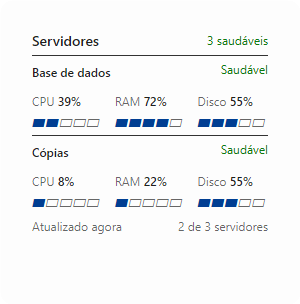
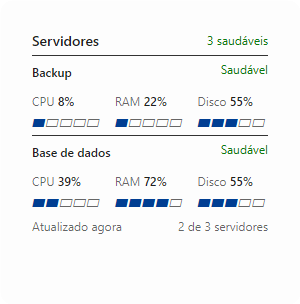
fix(app): approved picker copy and pt-PT synthetic name (UI.9 C2 nits)
- Prism C2 review §1 (binding): WidgetScreenshotAltText describes what is
  constant (health + CPU/RAM/disk), no server count, in en-US/pt-PT/pt-BR;
  WidgetDescription unchanged. Test pins the full approved table.
- N2-1: pt-PT synthetic server "Cópias" -> "Backup"; the two pt-PT picker
  PNGs regenerated with the same deterministic proxy command (en and pt-BR
  re-renders were byte-identical, so they are unchanged).

diff --git a/tests/ServerMonitor.App.Tests/Architecture/WidgetManifestGuardTests.cs b/tests/ServerMonitor.App.Tests/Architecture/WidgetManifestGuardTests.cs
@@ -95,6 +95,27 @@ public sealed class WidgetManifestGuardTests
             .Single(d => (string?)d.Attribute("name") == "WidgetDescription").Element("value")).Distinct().Count());
     }
 
+    /// <summary>
+    /// Prism C2 review §1 (BINDING): the exact picker copy per language. The alt text describes what is
+    /// constant (health + CPU/RAM/disk), never a server count, so the screenshot can change rows freely.
+    /// The en-US values are also the literal fallback if the board does not resolve ms-resource.
+    /// </summary>
+    [Theory]
+    [InlineData("en-US", "Your servers' health and metrics at a glance.",
+        "ServerAlyzer widget showing server health and CPU, RAM and disk use.")]
+    [InlineData("pt-PT", "A saúde e as métricas dos teus servidores, num relance.",
+        "Widget do ServerAlyzer com a saúde dos servidores e o uso de CPU, RAM e disco.")]
+    [InlineData("pt-BR", "A saúde e as métricas dos seus servidores, de relance.",
+        "Widget do ServerAlyzer com a saúde dos servidores e o uso de CPU, RAM e disco.")]
+    public void Picker_copy_matches_the_approved_table(string language, string description, string altText)
+    {
+        var resw = XDocument.Load(Path.Combine(AppDirectory, "Resources", language, "Resources.resw"));
+        string Value(string key) => (string)resw.Descendants("data").Single(d => (string?)d.Attribute("name") == key).Element("value")!;
+
+        Assert.Equal(description, Value("WidgetDescription"));
+        Assert.Equal(altText, Value("WidgetScreenshotAltText"));
+    }
+
     [Theory]
     [MemberData(nameof(ManifestNames))]
     public void No_hard_coded_portuguese_is_left_in_the_widget_registration(string manifestName)

diff --git a/tests/ServerMonitor.WidgetProvider.Tests/Rendering/WidgetCardPreviewTests.cs b/tests/ServerMonitor.WidgetProvider.Tests/Rendering/WidgetCardPreviewTests.cs
@@ -75,7 +75,7 @@ public sealed class WidgetCardPreviewTests
     /// </summary>
     [Theory]
     [InlineData("en-US", "Web server", "Database", "Backup")]
-    [InlineData("pt-PT", "Servidor web", "Base de dados", "Cópias")]
+    [InlineData("pt-PT", "Servidor web", "Base de dados", "Backup")]
     [InlineData("pt-BR", "Servidor web", "Banco de dados", "Backup")]
     public void Picker_fleet_is_synthetic_and_written_for_the_store_screenshot(string culture, string web, string db, string backup)
     {
